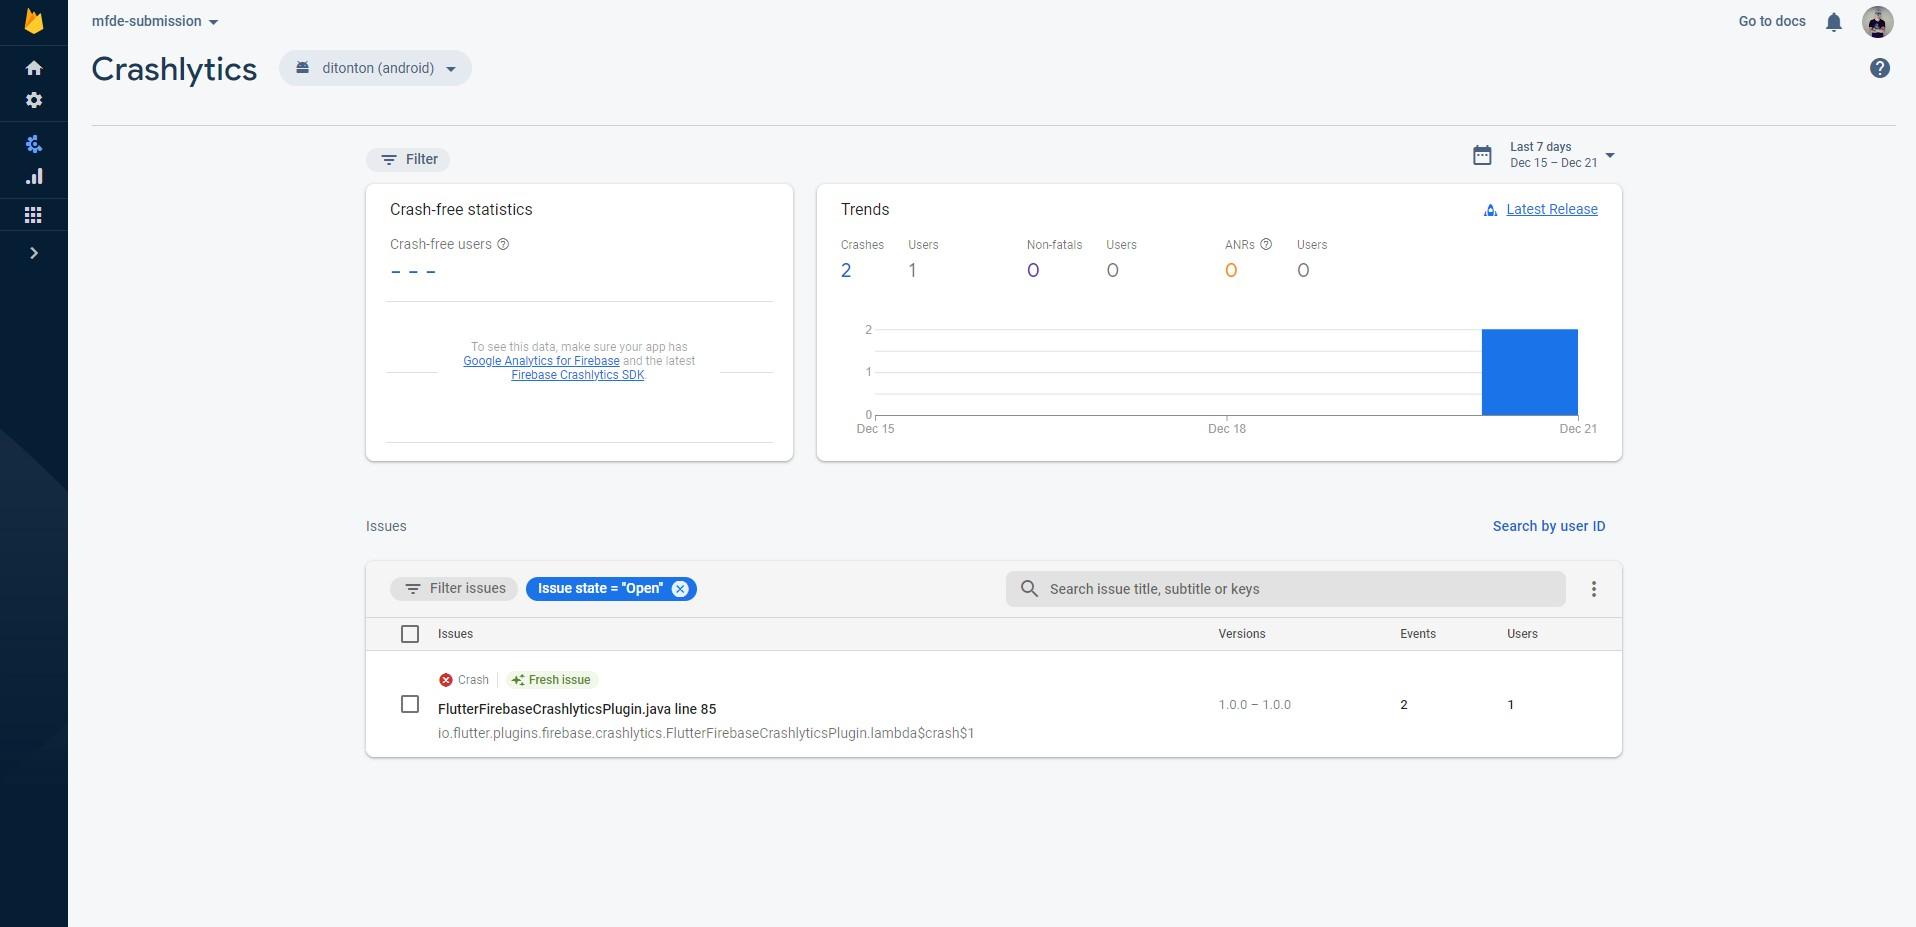
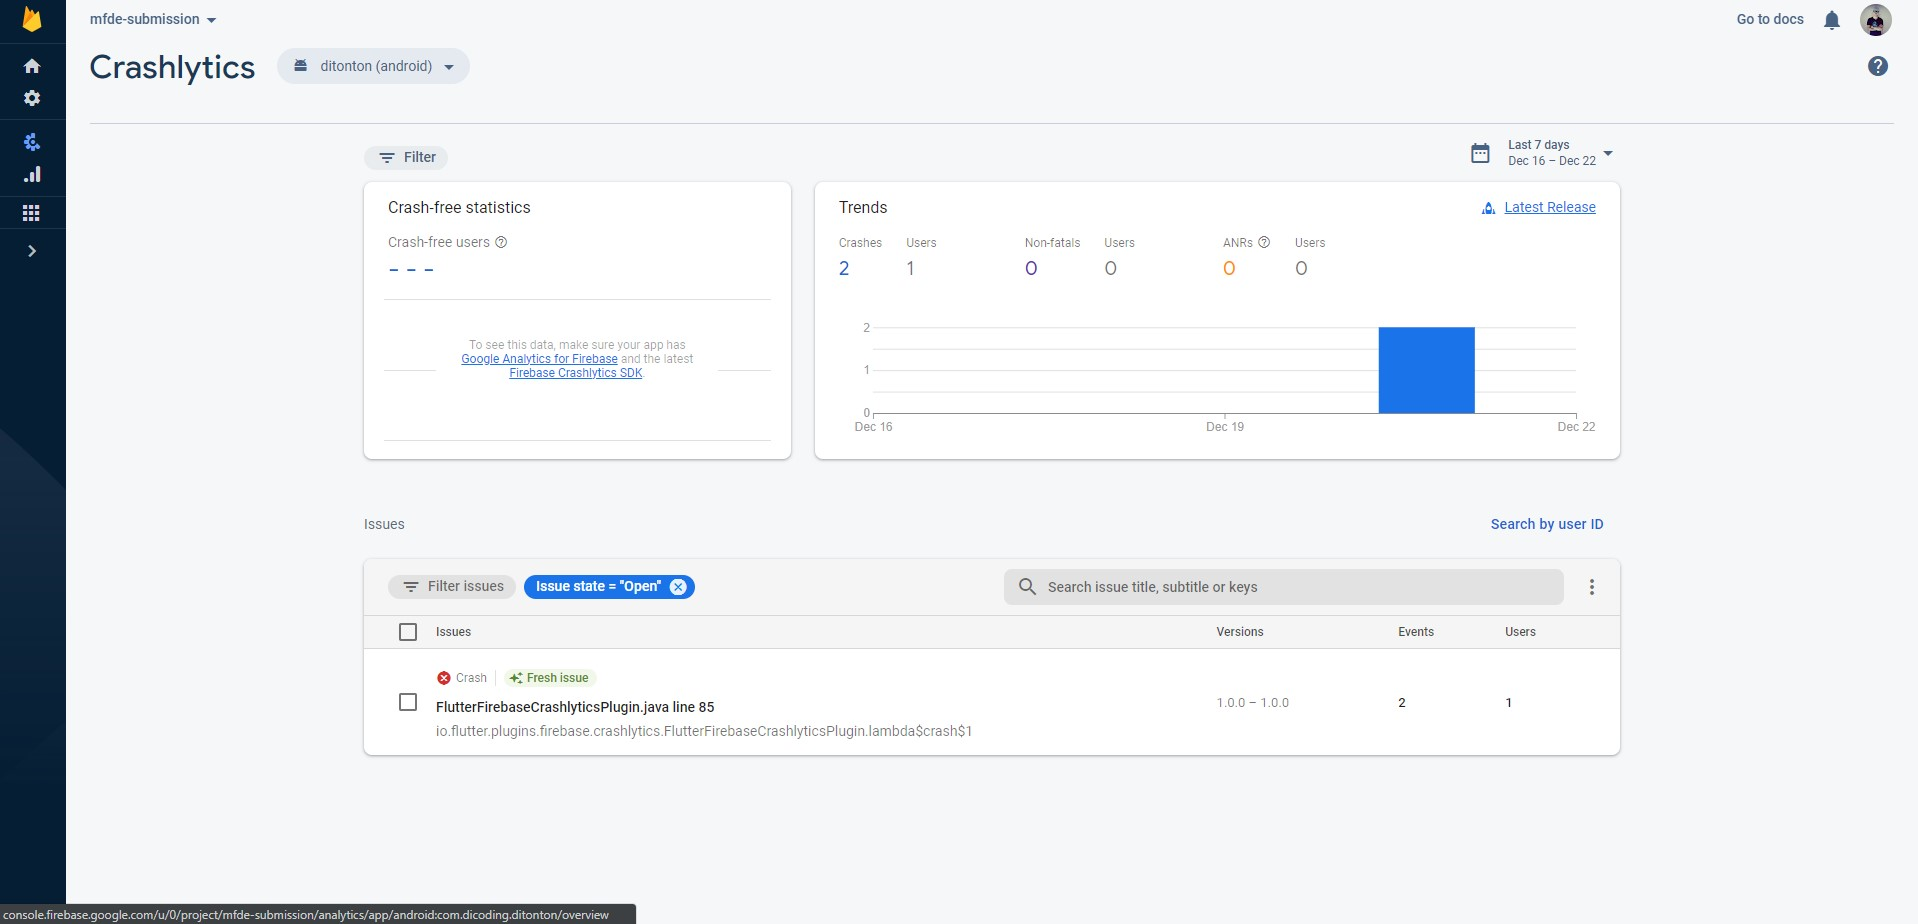
add screenshot

diff --git a/README.md b/README.md
@@ -1,3 +1,7 @@
 # Proyek Akhir Kriteria Submission | Menjadi Flutter Developer Expert
 
 [![Codemagic build status](https://api.codemagic.io/apps/639c1cbea4066898cf78880d/639c1cbea4066898cf78880c/status_badge.svg)](https://codemagic.io/apps/639c1cbea4066898cf78880d/639c1cbea4066898cf78880c/latest_build)
+
+Submission Akhir [Link Project Github](https://github.com/willygs/mfde_submission)
+![Analytics](https://raw.githubusercontent.com/willygs/mfde_submission/main/screenshot/analytics.jpg)
+![Crashlyticss](https://raw.githubusercontent.com/willygs/mfde_submission/main/screenshot/Crashlyticss.jpg)
